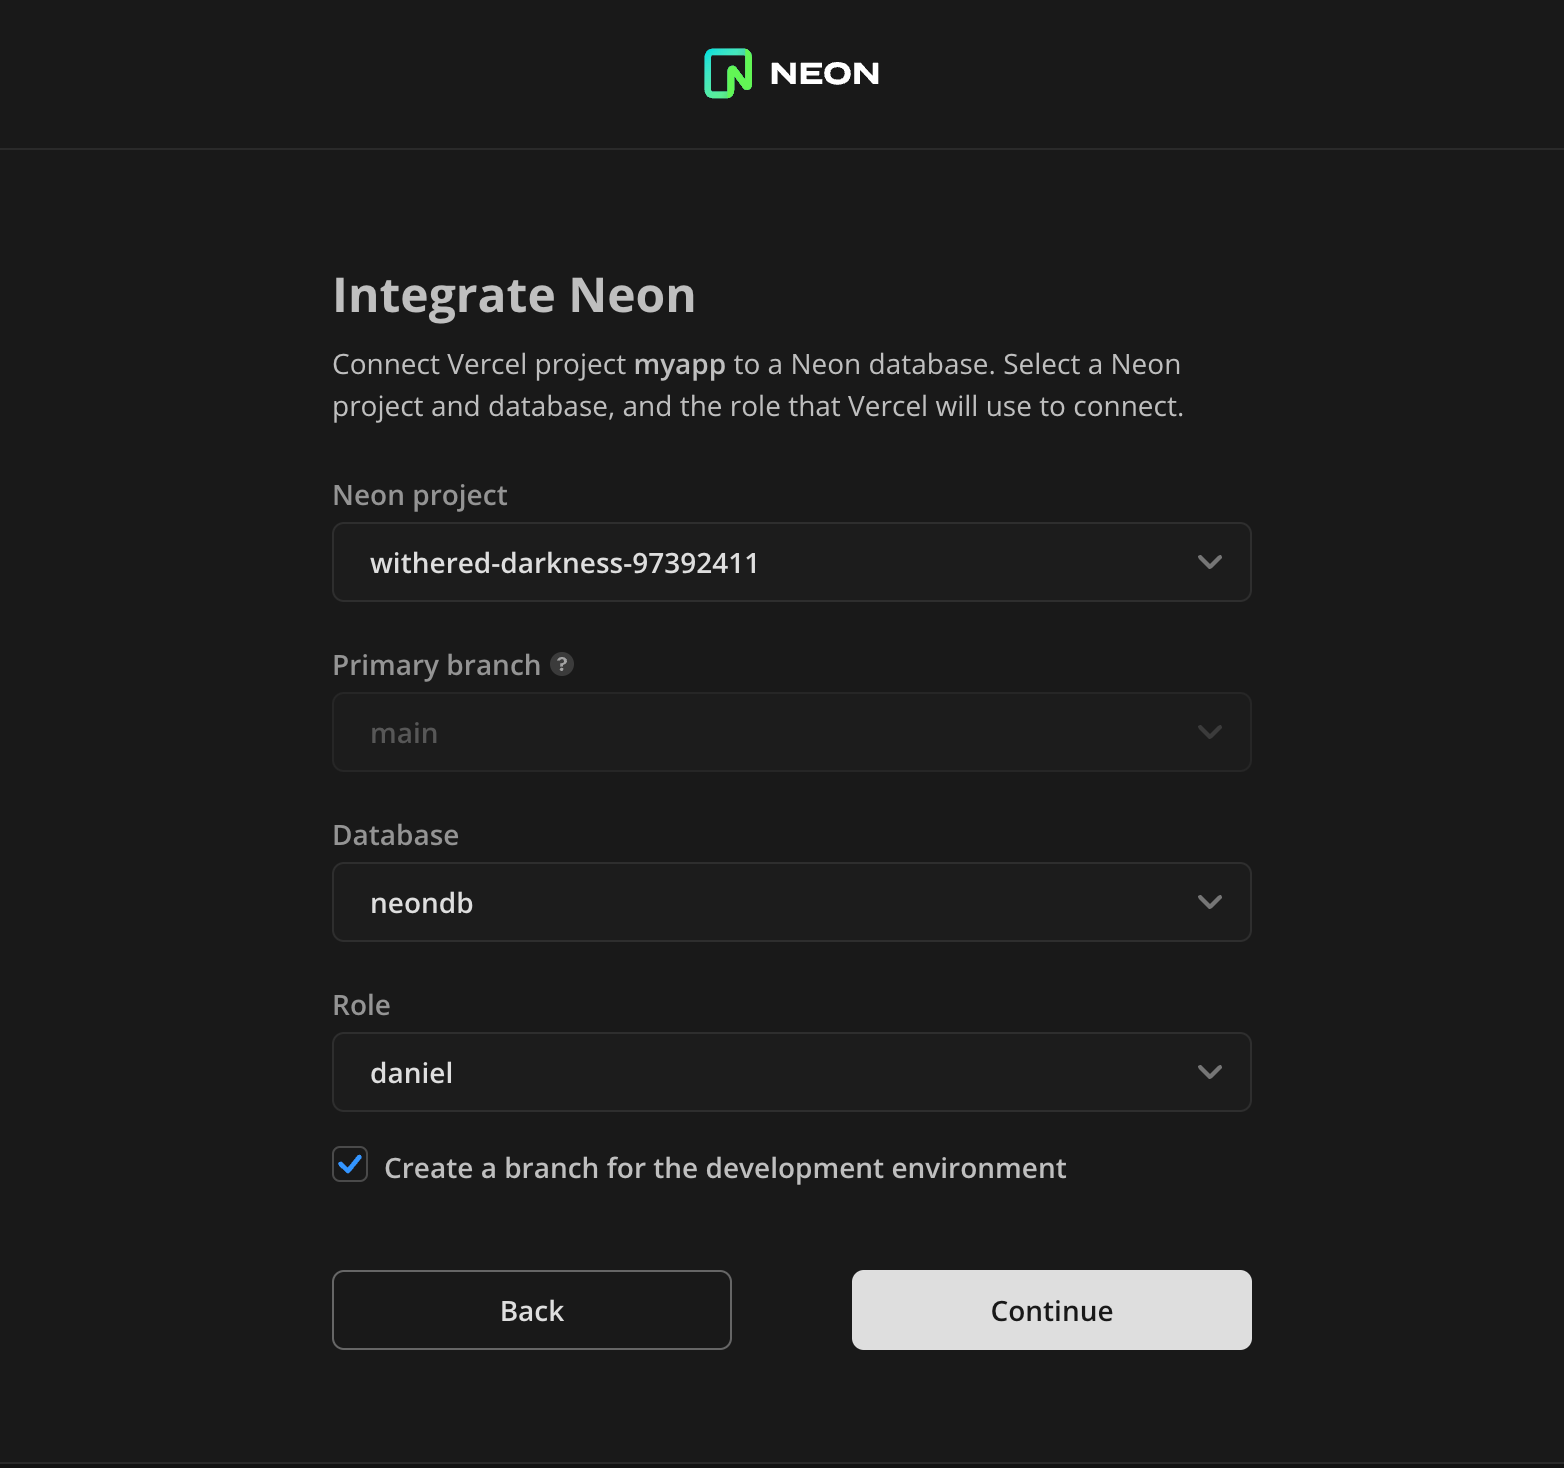
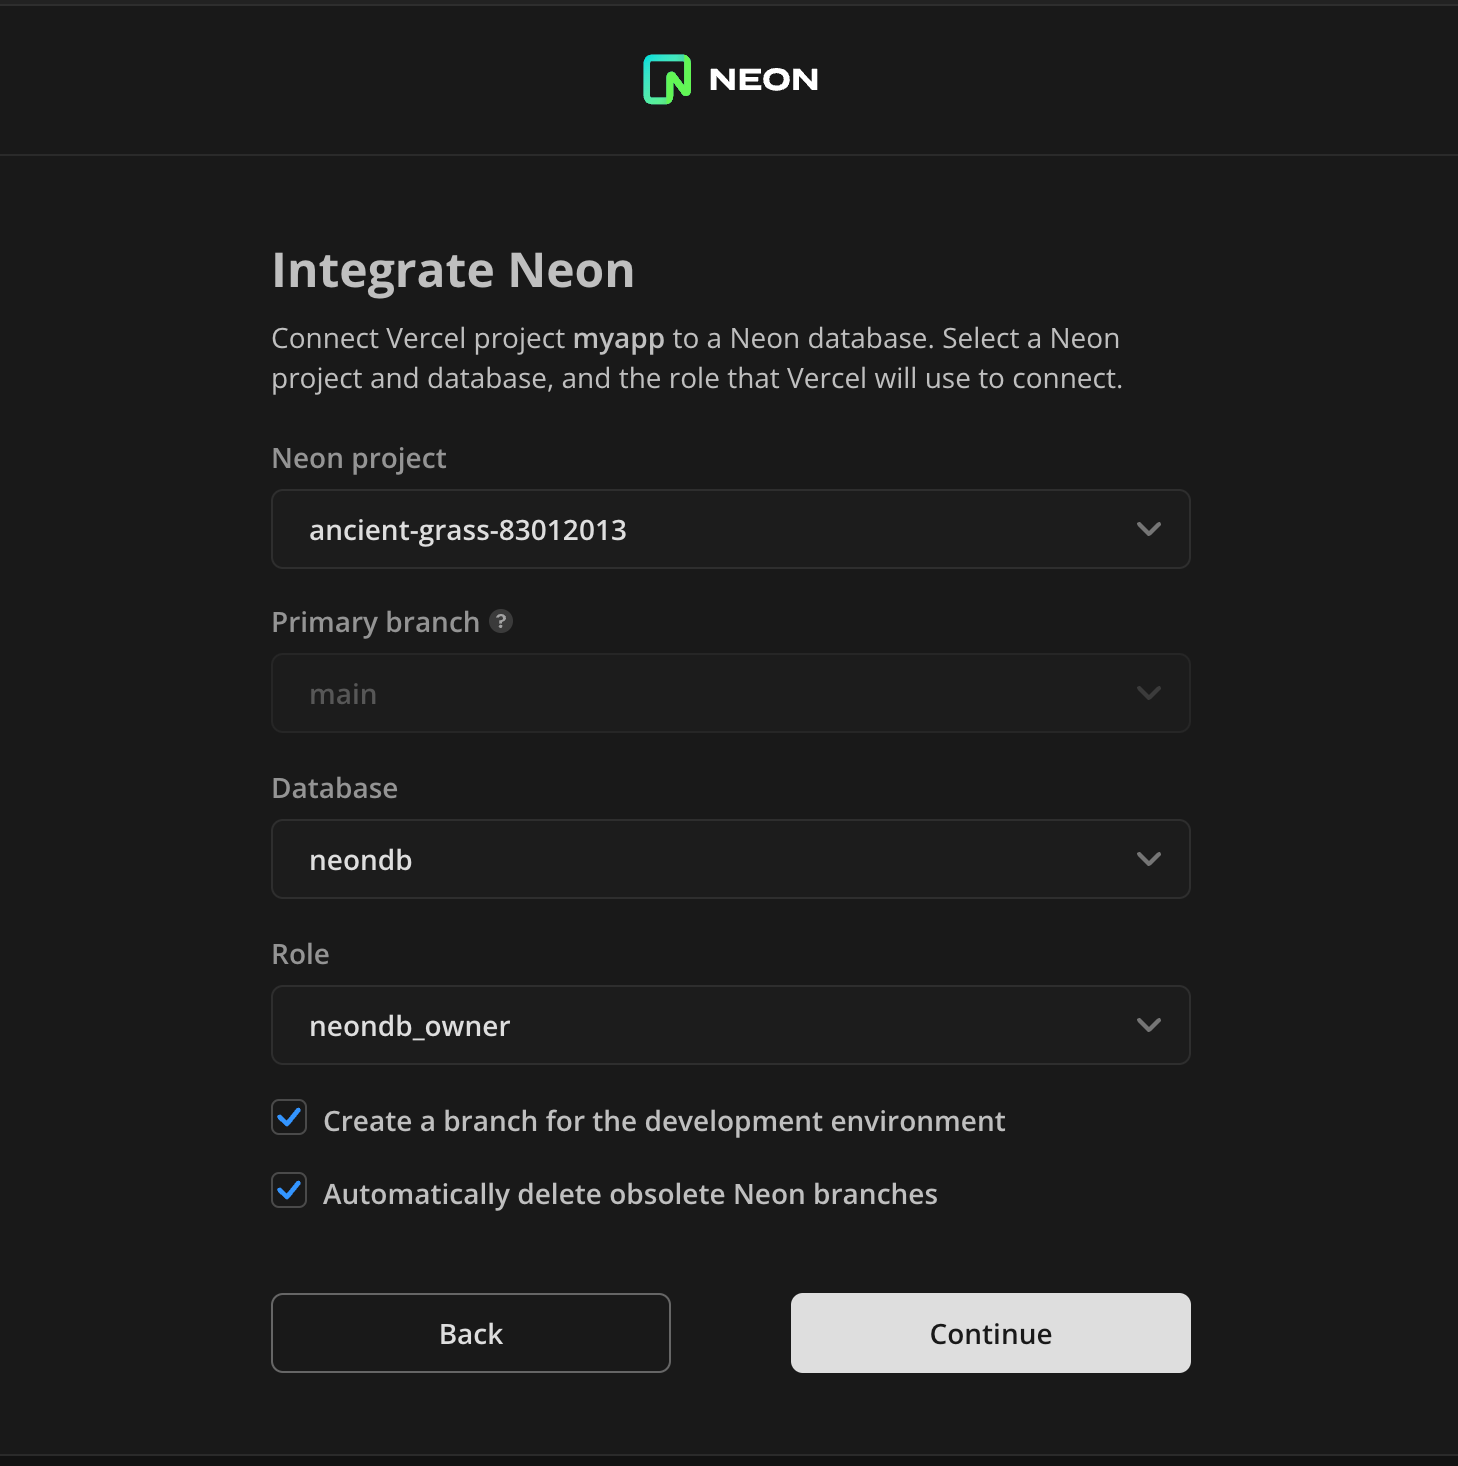
edits

diff --git a/content/changelog/2024-03-29-console.md b/content/changelog/2024-03-29-console.md
@@ -2,20 +2,20 @@
 description: TBD
 ---
 
+### PostgreSQL Partition Manager extension
 
+We added support for the [pg_partman](https://github.com/pgpartman/pg_partman) Postgres extension, which lets you create and manage time-based and number-based table partition sets.
 
-### Fixes & improvements
+### Neon Vercel integration enhancements
 
-### Stashed items
-
-### Drizzle Studio Integration into Neon Console
-We've integrated Drizzle Studio into the Neon Console, which lets you browse, add, update, and delete records from directly within the Neon Console. The Drizzle Studio integration also supports downloading data in `.json` and `.csv` file formats. You can access the Drizzle Studio integration from sidebar in the Neon console.
-
-![Drizzle studio integration](/docs/relnotes/drizzle_studio.png)
+- Added a drop-down menu to the **Branches** tab in the **Vercel integration** drawer. From the drop-down menu, you can delete all preview branches or only those marked as `Obsolete`. Obsolete branches are those that no longer have an associated git branch. Removing old or obsolete branches regularly helps avoid using up your storage allowance or hitting branch limits. For more information, see [Manage branches created by the integration](/docs/guides/vercel#manage-branches-created-by-the-integration).
+- The Neon Vercel integration now supports automatic deletion of obsolete Neon branches. This feature can be enabled when installing the integration by selecting the **Automatically delete obsolete Neon branches** option. This option is enabled by default when installing the integration. This feature is not enabled for existing integration installations. Automatic branch deletion occurs when the git branch that triggered the branch's creation is deleted.
+- A branch creation date is now displayed for each preview branch listed on the **Branches** tab in the Vercel integration drawer.
 
 ### Local File Cache (LFC) statistics and working set size function
+
 You can now view Local File Cache (LFC) statistics for your Neon compute. The statistics include a cache hit ratio, which can help you determine if your data is being accessed from memory or the Neon storage layer.
-The Local File Cache (LFC) is a layer of caching that stores frequently accessed data in the local memory of your Neon compute instance. The cache helps to reduce latency and improve query performance by minimizing the need to fetch data from the Neon storage layer. The LFC acts as an add-on or extension of Postgres [shared buffers](#shared-buffers). In Neon, the `shared_buffers` setting is always 128 MB, regardless of compute size. The LFC extends cache memory up to 50% of your compute's RAM.
+The Local File Cache (LFC) is a layer of caching that stores frequently accessed data in the local memory of your Neon compute instance. The cache helps to reduce latency and improve query performance by minimizing the need to fetch data from the Neon storage layer. The LFC acts as an add-on or extension of Postgres [shared buffers](#shared-buffers). In Neon, the `shared_buffers` setting is always 128 MB, regardless of compute size. The LFC extends cache memory up to 80% of your compute's RAM.
 Local File Cache (LFC) statistics are exposed through a `neon_stat_file_cache view`, which you access by installing the `neon` extension.
 ```sql
 CREATE EXTENSION neon;
@@ -31,9 +31,23 @@ You can also use `EXPLAIN ANALYZE` with the `FILECACHE` option to view LFC cache
 Additionally, the `neon` extension now provides an `approximate_working_set_size()` function that can be used to estimate your working set size. Ideally, your working set should fit in your compute's memory.
 For more information, see [The neon extension](https://neon.tech/docs/extensions/neon). To learn how the LFC cache hit ratio and `approximate_working_set_size()` function can help you right-size your compute, see [How to size your compute](/docs/manage/endpoints#how-to-size-your-compute).
 
-### PostgreSQL Partition Manager extension
+### Fixes & improvements
 
-We added support for the [pg_partman](https://github.com/pgpartman/pg_partman) Postgres extension, which lets you create and manage time-based and number-based table partition sets.
+- Corrected an issue that prevented a Free Tier user from creating a new read-write compute for their primary branch after deleting the one created with their Neon project. 
+- Updated the visual displayed on the Projects page in the Neon Console when all projects are removed.
+- Fixed a number of UI copy inconsistencies in the Neon Console.
+- Adjusted copy and links on the connection details modal that is displayed after creating a new project.
+
+### Stashed items
+
+### Drizzle Studio Integration into Neon Console
+We've integrated Drizzle Studio into the Neon Console, which lets you browse, add, update, and delete records from directly within the Neon Console. The Drizzle Studio integration also supports downloading data in `.json` and `.csv` file formats. You can access the Drizzle Studio integration from sidebar in the Neon console.
+
+![Drizzle studio integration](/docs/relnotes/drizzle_studio.png)
+
+
+
+
 
 ### Neon Serverless driver JavaScript Registry (JSR) package
 
@@ -45,7 +59,6 @@ For serverless driver docs:
 The Neon serverless driver is also available as a [JavaScript Registry (JSR)](https://jsr.io/docs/introduction) package: [https://jsr.io/@neon/serverless](https://jsr.io/@neon/serverless). The JavaScript Registry (JSR) is a package registry for JavaScript and TypeScript. JSR works with many runtimes (Node.js, Deno, browsers, and more) and is backward compatible with `npm`.
 </Admonition>
 
-- `[03/22]` Added a drop-down menu to the **Branches** tab in the **Vercel integration** drawer. From the drop-down menu, you can delete all preview branches or only those marked as `Obsolete`. Obsolete branches are those that no longer have an associated git branch. Removing old or obsolete branches regularly helps avoid using up your storage allowance or hitting branch limits. For more information, see [Manage branches created by the integration](/docs/guides/vercel#manage-branches-created-by-the-integration).
 
 
 

diff --git a/content/docs/guides/vercel.md b/content/docs/guides/vercel.md
@@ -24,7 +24,9 @@ Neon’s branching feature addresses these challenges. A branch is a copy-on-wri
 
 ![Branch database](/docs/guides/vercel_branch_database.webp)
 
-When you push changes to the repository associated with your Vercel project, triggering a preview deployment, the integration automatically creates a branch in Neon and connects it to your preview deployment by setting Vercel preview environment variables. 
+When you push changes to the repository associated with your Vercel project, triggering a preview deployment, the integration automatically creates a branch in Neon and connects it to your preview deployment by setting Vercel preview environment variables.
+
+
 
 ## Add the Neon Vercel Integration
 
@@ -55,6 +57,8 @@ To add the integration:
       ![Connect to Neon](/docs/guides/vercel_connect_neon.png)
 
           The **Create a branch for your development environment** option creates a branch named `vercel-dev` and sets Vercel development environment variables for it. The `vercel-dev` branch is a clone of your project's primary branch (`main`) that you can modify without affecting data on your primary branch.
+
+          The **Automatically delete obsolete Neon branches** option automatically deletes a Neon preview branch when the git branch that triggered its creation is deleted.
          <Admonition type="note">
          Branches created for preview deployments are created from the [primary branch](/docs/reference/glossary#primary-branch) of your Neon project. Earlier versions of the integration created branches from the initial [root branch](/docs/reference/glossary#root-branch) of your Neon project, which is designated as the primary branch by default. Neon lets you [change the primary branch](/docs/manage/branches#set-a-branch-as-primary). If you have an older version of the integration that creates branches from your project's root branch, and you want branches created from your primary branch instead, you can upgrade your integration by reinstalling it from the [Vercel Marketplace](https://vercel.com/integrations/neon).
          </Admonition>

diff --git a/content/docs/connect/connection-errors.md b/content/docs/connect/connection-errors.md
@@ -158,7 +158,7 @@ Error: P1001: Can't reach database server at `ep-white-thunder-826300.us-east-2.
 Please make sure your database server is running at `ep-white-thunder-826300.us-east-2.aws.neon.tech`:`5432`.
 ```
 
-A compute node in Neon has two main states: **Active** and **Idle**. Active means that Postgres is currently running. If there are no active queries for 5 minutes, the activity monitor gracefully places the compute node into an idle state to save energy and resources.
+A compute in Neon has two main states: **Active** and **Idle**. Active means that Postgres is currently running. If there are no active queries for 5 minutes, the activity monitor gracefully places the compute into an idle state to reduce compute usage.
 
 When you connect to an idle compute, Neon automatically activates it. Activation typically happens within a few seconds. If the error above is reported, it most likely means that the Prisma query engine timed out before your Neon compute was activated. For dealing with this connection timeout scenario, refer to the [connection timeout](/docs/guides/prisma#connection-timeouts) instructions in our Prisma documentation. Our [connection latency and timeout](/docs/connect/connection-latency) documentation may also be useful in addressing this issue.
 

diff --git a/content/docs/reference/glossary.md b/content/docs/reference/glossary.md
@@ -428,10 +428,6 @@ Neon is currently in Technical Preview, meaning that some intended core function
 
 An encrypted access token that enables you to authenticate with Neon using the Neon API. An access token is generated when creating a Neon API key. For more information, see [Manage API keys](/docs/manage/api-keys).
 
-## tmpfs
-
-A temporary file storage system that uses a portion of a system's RAM to store files, improving performance by reducing disk usage.
-
 ## unpooled connection string
 
 An unpooled connection string connects to your Neon database directly. It does not use [connection pooling](#connection-pooling), and it looks similar to this:
